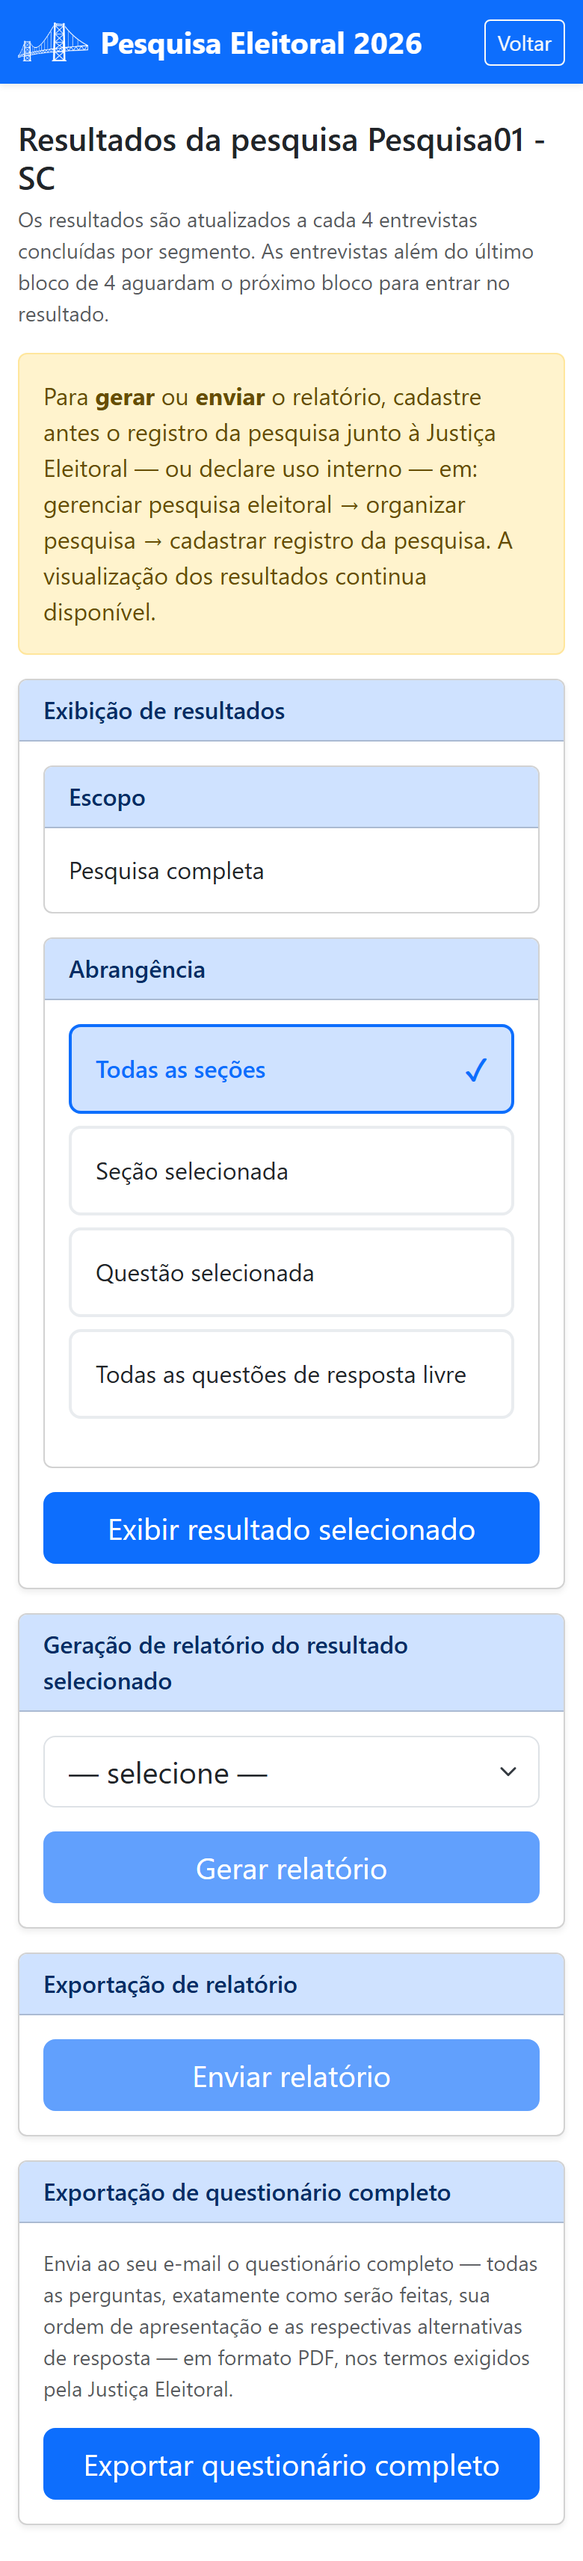
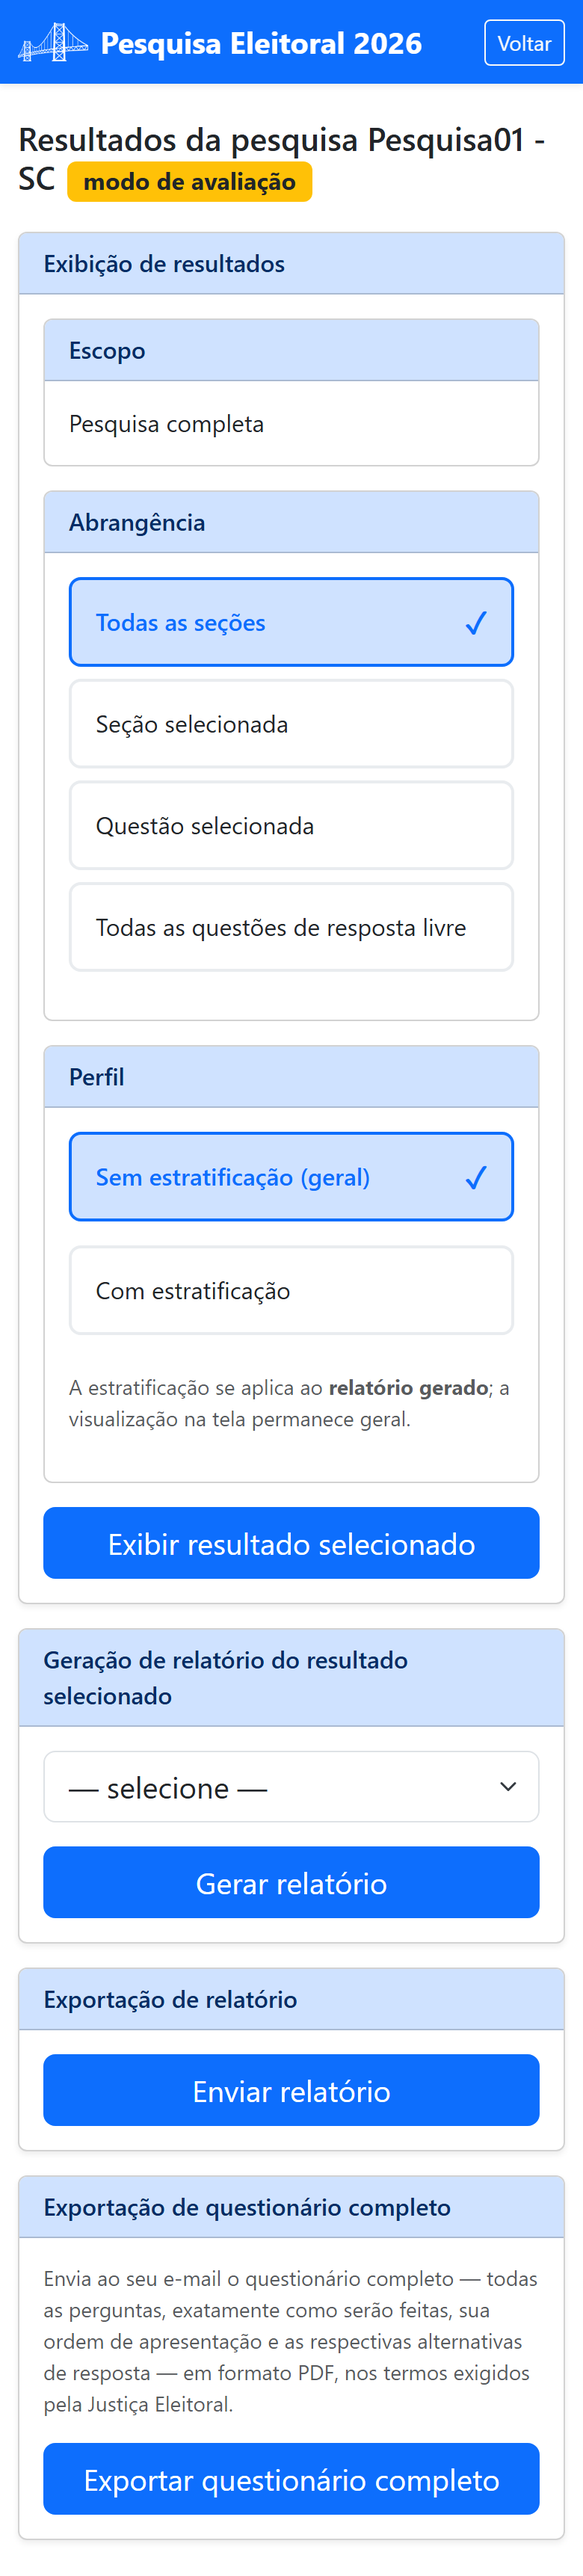
Correcoes da revisao: ressalva do PWA, figuras de pre-candidaturas e resultados recapturadas no modo de avaliacao, ajustes de 10.3 e 14.3

diff --git a/10-configurar.html b/10-configurar.html
@@ -79,8 +79,7 @@ de texto livre, e a resposta passa a ser digitada.</p>
 <h2>10.3 Quando as mudanças passam a valer</h2>
 <p>Você não precisa “aplicar” nada: o aplicativo <strong>guarda</strong> a configuração à medida
 que você a registra, e ela é <strong>incorporada ao questionário</strong> no momento em que você
-toca em <strong>Autorizar início da pesquisa</strong> (<a href="11-autorizar-iniciar.html">§11</a>).
-Até lá, os entrevistadores continuam vendo o questionário padrão; a partir daí, veem o seu.</p>
+toca em <strong>Autorizar início da pesquisa</strong> (<a href="11-autorizar-iniciar.html">§11</a>).</p>
 <p>Por isso você pode voltar aqui quantas vezes quiser antes de autorizar: trocar um arquivo,
 carregar o de outro cargo, remarcar uma seção. Nada fica pela metade e não há aviso de
 “alterações pendentes” para administrar.</p>

diff --git a/05-boas-vindas-gestao.html b/05-boas-vindas-gestao.html
@@ -28,7 +28,7 @@
   <li><strong>Registrar código de desconto</strong> — informar um código para obter desconto na aquisição;</li>
   <li><strong>Editar dados do(a) coordenador(a) de pesquisa</strong> — seus dados e senha (<a href="02-acesso.html">§2.5</a>);</li>
   <li><strong>Manual do coordenador</strong> — abre este manual em uma nova aba, para consulta a qualquer momento;</li>
-  <li><strong>Instalar aplicativo</strong> — cria um atalho do app na tela inicial do seu dispositivo, para abri-lo como um aplicativo (disponível quando ele for publicado no formato PWA);</li>
+  <li><strong>Instalar aplicativo</strong> — cria um atalho do app na tela inicial do seu dispositivo, para abri-lo como um aplicativo;</li>
   <li><strong>Sair</strong>.</li>
 </ul>
 <aside class="warn">

diff --git a/14-regras-prazos.html b/14-regras-prazos.html
@@ -43,8 +43,7 @@ guia; aqui elas estão reunidas.</p>
 <h2>14.3 O que trava ao autorizar o início</h2>
 <aside class="warn">
   <p><strong>⚠ Autorizar o início é irreversível e bloqueia a configuração.</strong> A partir da
-  <strong>autorização</strong> — e não do envio da primeira entrevista — não é mais possível
-  remover seções nem inserir pré-candidaturas. O bloqueio vale mesmo que nenhuma entrevista tenha
+  <strong>autorização</strong> não é mais possível remover seções nem inserir pré-candidaturas. O bloqueio vale mesmo que nenhuma entrevista tenha
   sido aplicada ainda. Deixe tudo pronto antes. Veja <a href="11-autorizar-iniciar.html">§11</a>.</p>
 </aside>
 

diff --git a/12-resultados.html b/12-resultados.html
@@ -19,7 +19,7 @@
 questionário completo. Os resultados vão sendo <strong>atualizados</strong> à medida que novas
 entrevistas são enviadas.</p>
 <figure class="shot"><img src="images/15-resultados.png" alt="Tela de exibição de resultados">
-  <figcaption>Exibição de resultados</figcaption></figure>
+  <figcaption>Exibição de resultados — os três recortes: Escopo, Abrangência e Perfil</figcaption></figure>
 
 <h2>12.1 Escolher o que exibir</h2>
 <p>Você define <strong>três recortes</strong> e toca em <strong>Exibir resultado selecionado</strong>:</p>
